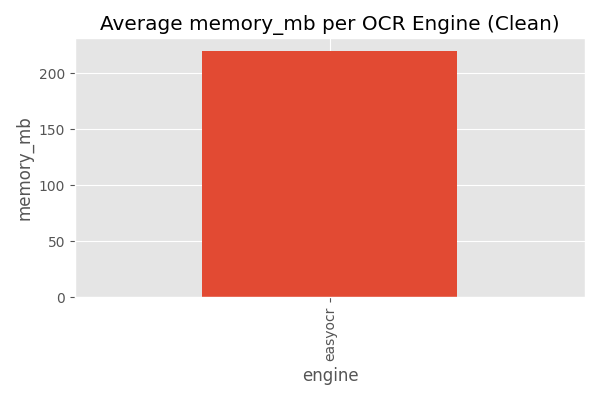
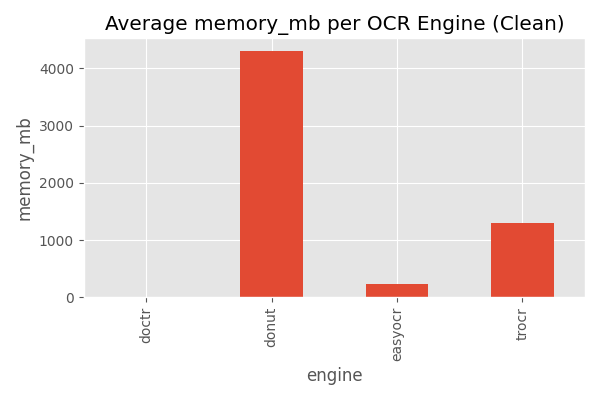
Ran all models

diff --git a/src/benchmark/runner.py b/src/benchmark/runner.py
@@ -4,7 +4,6 @@ import pandas as pd
 import psutil
 from src.engines.tesseract_engine import TesseractEngine
 from src.engines.easyocr_engine import EasyOCREngine
-from src.engines.paddleocr_engine import PaddleOCREngine
 from src.engines.trocr_engine import TrOCREngine
 from src.engines.donut_engine import DonutEngine
 from src.engines.doctr_engine import DocTREngine
@@ -30,7 +29,6 @@ class BenchmarkRunner:
         engine_map = {
             "tesseract": lambda: TesseractEngine(),
             "easyocr": lambda: EasyOCREngine([easyocr_lang]),
-            "paddleocr": lambda: PaddleOCREngine(self.lang),
             "trocr": lambda: TrOCREngine(),
             "donut": lambda: DonutEngine(),
             "doctr": lambda: DocTREngine(),
@@ -73,35 +71,39 @@ class BenchmarkRunner:
 
             for engine in self.engines:
                 for c_name, c_path in corrupted_images.items():
-                
-                    mem_before = process.memory_info().rss / 1024 / 1024
-                    
-                    predicted, _, inference_time = engine.predict(
-                        c_path,
-                        self.lang
-                    )
-                    
-                    mem_after = process.memory_info().rss / 1024 / 1024
-                    memory_usage = max(0, mem_after - mem_before)
+                    try:
+                        mem_before = process.memory_info().rss / 1024 / 1024
 
-                    metrics = evaluate(
-                        predicted,
-                        ground_truth,
-                        inference_time,
-                        memory_usage
-                    )
+                        predicted, _, inference_time = engine.predict(
+                            c_path,
+                            self.lang
+                        )
 
-                    result = {
-                        "file": file,
-                        "corruption": c_name,
-                        "engine": engine.name,
-                        "predicted_text": predicted,
-                        "ground_truth": ground_truth,
-                        **metrics
-                    }
+                        mem_after = process.memory_info().rss / 1024 / 1024
+                        memory_usage = max(0, mem_after - mem_before)
 
-                    print(f"[{engine.name} | {c_name}] {file} - CER: {metrics['cer']:.4f}")
-                    results.append(result)
+                        metrics = evaluate(
+                            predicted,
+                            ground_truth,
+                            inference_time,
+                            memory_usage
+                        )
+
+                        result = {
+                            "file": file,
+                            "corruption": c_name,
+                            "engine": engine.name,
+                            "predicted_text": predicted,
+                            "ground_truth": ground_truth,
+                            **metrics
+                        }
+
+                        print(f"[{engine.name} | {c_name}] {file} - CER: {metrics['cer']:.4f}")
+                        results.append(result)
+
+                    except Exception as e:
+                        print(f"[{engine.name} | {c_name}] FAILED on {file}: {e}")
+                        continue
 
         self._save_results(results)
         return results

diff --git a/cli.py b/cli.py
@@ -24,8 +24,8 @@ def main():
     parser.add_argument(
         "--engines",
         type=str,
-        default="tesseract,easyocr",
-        help="Comma-separated list of OCR engines to benchmark"
+        default="tesseract,easyocr,trocr,donut,doctr,nougat",
+        help="Comma-separated list of OCR engines: tesseract, easyocr, trocr, donut, doctr, nougat"
     )
 
     parser.add_argument(

diff --git a/src/engines/easyocr_engine.py b/src/engines/easyocr_engine.py
@@ -16,7 +16,7 @@ class EasyOCREngine(BaseOCREngine):
     def predict(self, image_path: str, lang: str = "eng"):
         if self.reader is None:
             import easyocr
-            self.reader = easyocr.Reader(self.languages)
+            self.reader = easyocr.Reader(self.languages, gpu=False)
 
         start = time.time()
 
